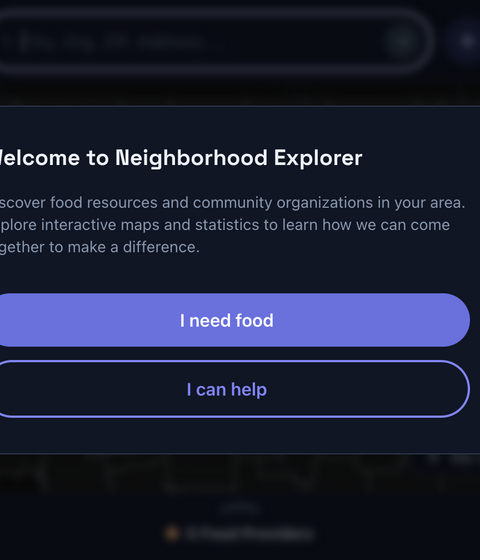
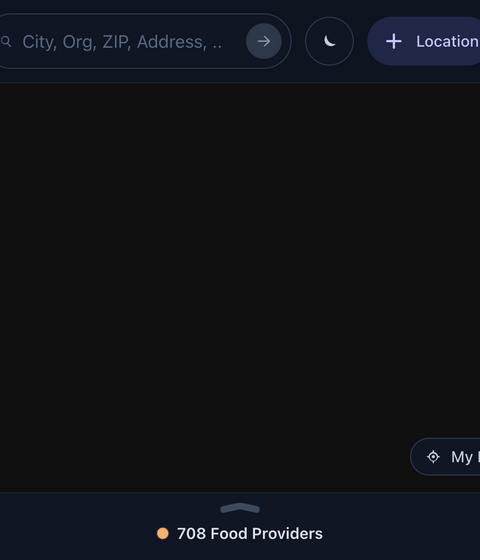
Providers & Locations to "Organizations"

diff --git a/src/react/imperative/categoryChips.ts b/src/react/imperative/categoryChips.ts
@@ -160,7 +160,7 @@ export const createCategoryChips = (options: CategoryChipsOptions = {}): Categor
   // Match org cluster color: #fed7aa (orange-200)
   orgsChipBtn.className = `${CATEGORY_CHIP_CLASSES} border-transparent bg-orange-200 text-orange-900 shadow-floating hover:bg-orange-200 dark:bg-orange-400/30 dark:text-orange-100`;
   const orgsLabel = document.createElement("span");
-  orgsLabel.textContent = "Providers";
+  orgsLabel.textContent = "Organizations";
   orgsLabel.className = "whitespace-nowrap";
   const orgsClose = document.createElement("span");
   orgsClose.innerHTML = CLOSE_ICON;
@@ -382,14 +382,14 @@ export const createCategoryChips = (options: CategoryChipsOptions = {}): Categor
 
   const applyAccessoryChipVisibility = () => {
     if (isMobile) {
-      // Providers chip is desktop-only; on mobile we show only the time chip when available.
+      // Organizations chip is desktop-only; on mobile we show only the time chip when available.
       orgsChipBtn.style.display = "none";
       const showTime = orgsChipVisible && timeFilterAvailable;
       timeOpenChipBtn.style.display = showTime ? "" : "none";
       return;
     }
-    const showProviders = orgsChipVisible && !searchExpanded;
-    orgsChipBtn.style.display = showProviders ? "" : "none";
+    const showOrganizations = orgsChipVisible && !searchExpanded;
+    orgsChipBtn.style.display = showOrganizations ? "" : "none";
 
     const showTime = orgsChipVisible && timeFilterAvailable && !searchExpanded;
     timeOpenChipBtn.style.display = showTime ? "" : "none";
@@ -430,7 +430,7 @@ export const createCategoryChips = (options: CategoryChipsOptions = {}): Categor
     searchInput.className =
       "w-full min-w-0 bg-transparent text-sm text-slate-700 outline-none placeholder:text-slate-400 dark:text-slate-200 dark:placeholder:text-slate-500";
     searchInput.placeholder = "City, Location, ZIP, Address, ...";
-    searchInput.setAttribute("aria-label", "Search locations");
+    searchInput.setAttribute("aria-label", "Search organizations");
     searchForm.appendChild(searchInput);
 
     const submitButton = document.createElement("button");

diff --git a/src/react/components/Sidebar.tsx b/src/react/components/Sidebar.tsx
@@ -629,7 +629,7 @@ export const Sidebar = ({
             className={tabClasses(activeTab === "orgs")}
             onClick={() => handleTabChange("orgs")}
           >
-            <span>Locations ({countForTab})</span>
+            <span>Organizations ({countForTab})</span>
             {/* Keep Orgs On Map Toggle */}
             <span
               role="switch"
@@ -765,7 +765,7 @@ export const Sidebar = ({
           />
         )}
 
-        {/* Locations Tab */}
+        {/* Organizations Tab */}
         {activeTab === "orgs" && (
           <div ref={orgsScrollRef} className="flex flex-1 flex-col overflow-y-auto">
             {/* Time Filter Indicator */}
@@ -816,12 +816,12 @@ export const Sidebar = ({
                 </div>
               ) : (
                 <p className="px-4 pt-3 pb-6 text-sm text-slate-500 dark:text-slate-400">
-                  No locations found. Add one to get started.
+                  No organizations found. Add one to get started.
                 </p>
               )
             ) : timeSelection && inSelection.length === 0 && all.length === 0 && recent.length === 0 ? (
               <p className="px-4 pt-3 pb-6 text-sm text-slate-500 dark:text-slate-400">
-                No locations are open at the selected time.
+                No organizations are open at the selected time.
               </p>
             ) : (
               <div className="flex-1">
